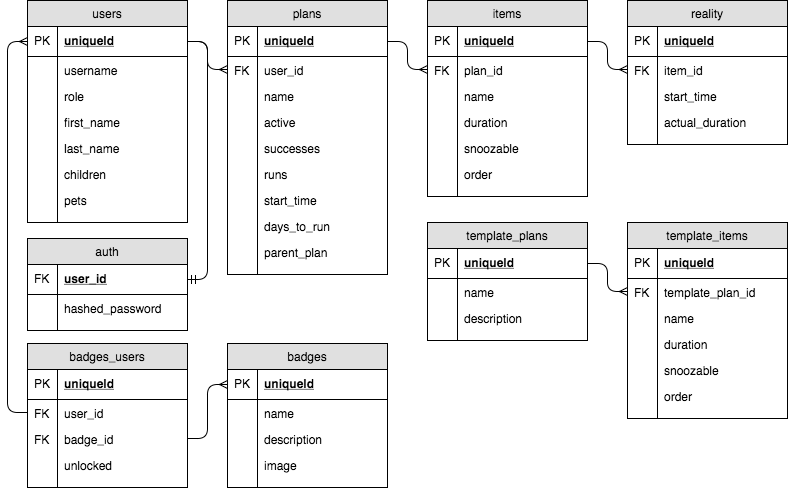
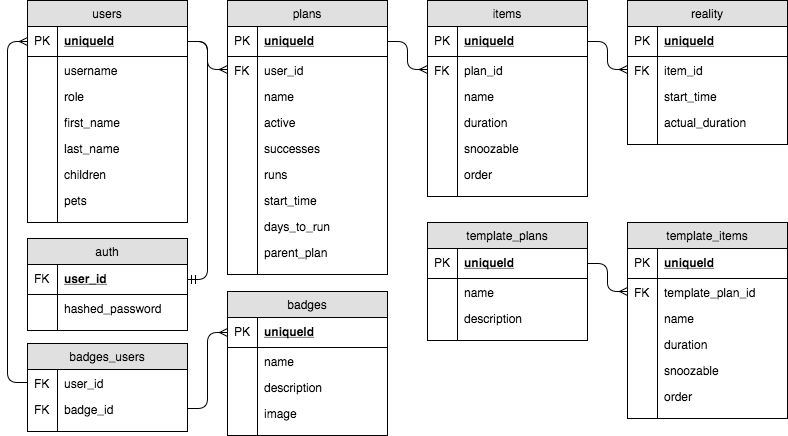
Remove 'id' and 'unlocked' from badges_users.

diff --git a/db/migrations/20171219234520_badges_users.js b/db/migrations/20171219234520_badges_users.js
@@ -1,11 +1,9 @@
 exports.up = function(knex, Promise) {
   return knex.schema.createTable('badges_users', (table) => {
-    table.increments()
     table.integer('badge_id').notNullable()
     table.foreign('badge_id').references('badges.id').onDelete('CASCADE')
     table.integer('user_id').notNullable()
     table.foreign('user_id').references('users.id').onDelete('CASCADE')
-    table.boolean('unlocked').notNullable().defaultTo(false)
     table.timestamps(true, true)
   })
 };
